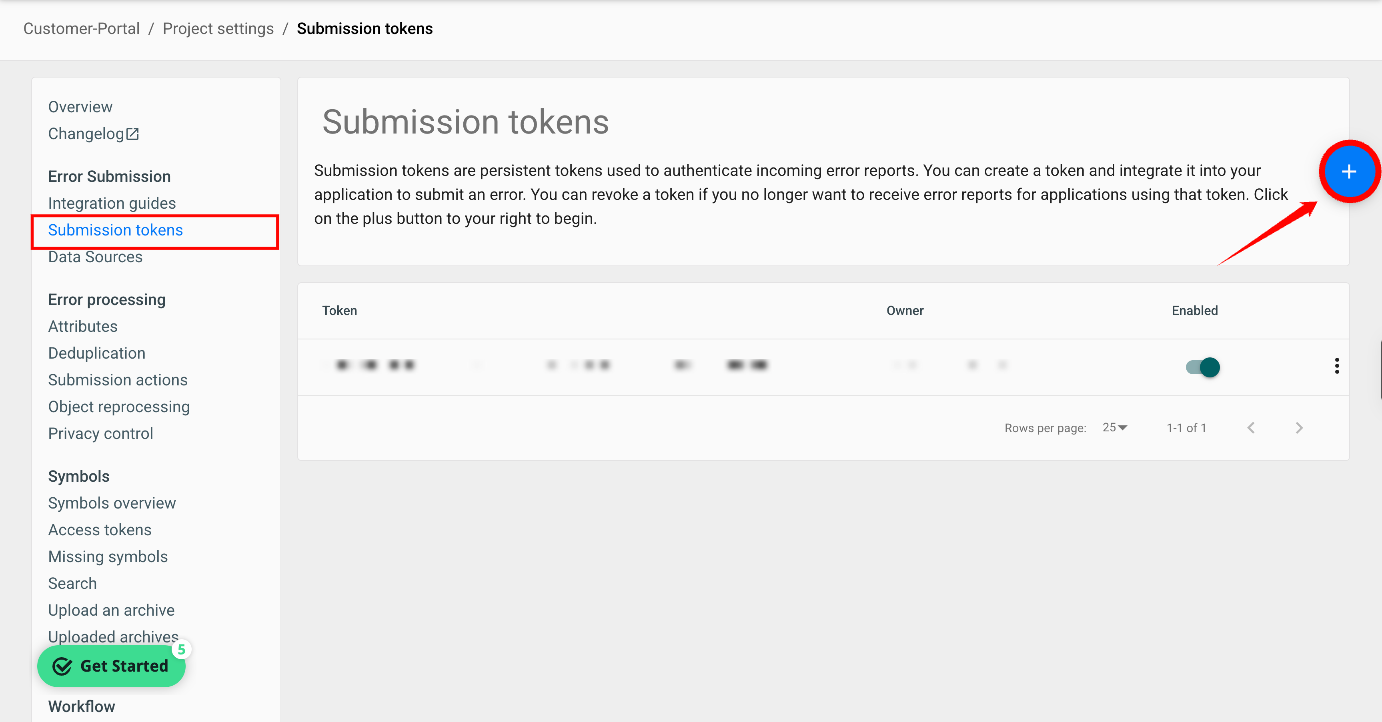
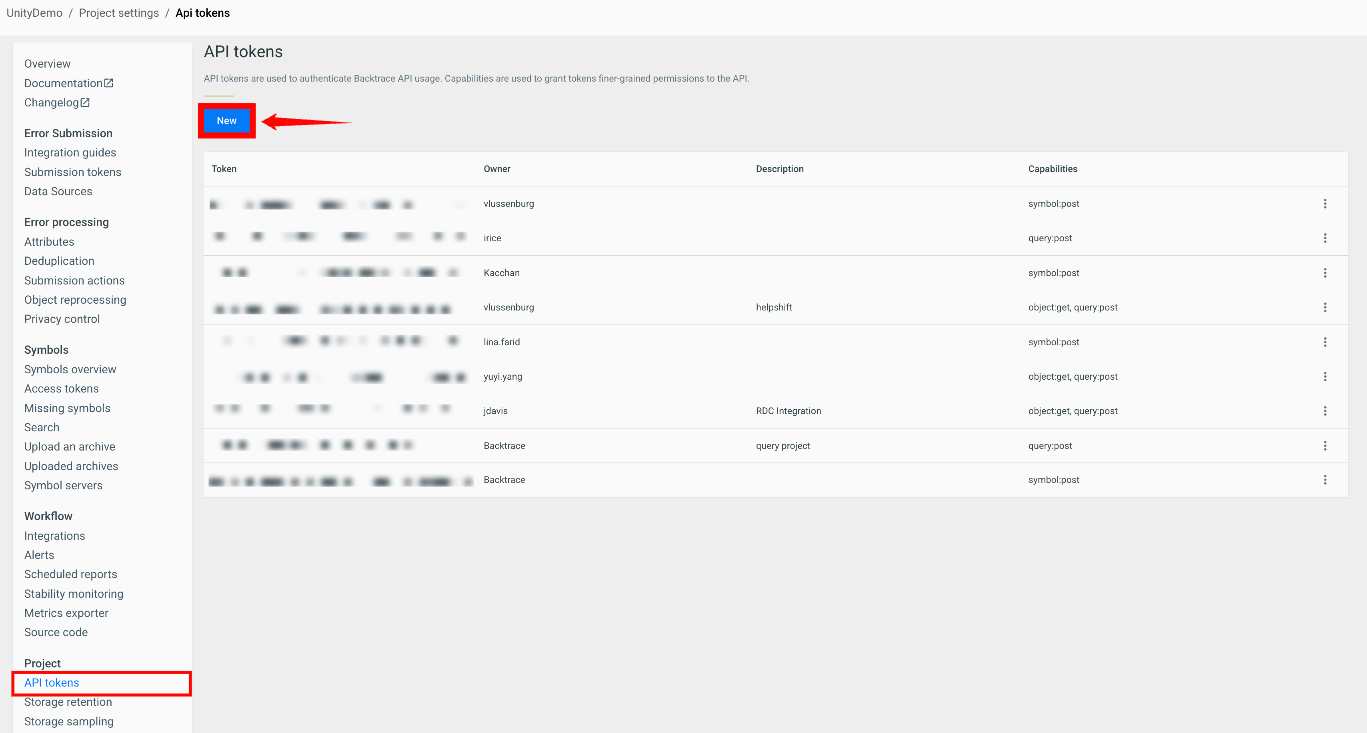
Fix ER MCP docs: Use API token instead of submission token and update screenshots. (#3712)

diff --git a/docs/error-reporting/mcp/set-up-error-reporting-mcp.md b/docs/error-reporting/mcp/set-up-error-reporting-mcp.md
@@ -15,7 +15,7 @@ The Error Reporting MCP server (`https://mcp.saucelabs.com`) supports two ways t
 | Method | Best for | How it works |
 | ----- | ----- | ----- |
 | **Single sign-on (SSO)** | Interactive use on your own machine | You sign in through your browser with your usual Sauce Labs credentials. No tokens to manage. |
-| **Access token** | Scripts, CI jobs, and headless agents | You supply an Error Reporting token that is scoped to a single project. No browser required. |
+| **Access token** | Scripts, CI jobs, and headless agents | You supply an Error Reporting API token that is scoped to a single project. No browser required. |
 
 Both methods require your **universe** name, which is the Error Reporting tenant your projects belong to. It is the subdomain you use to reach Error Reporting: for `https://saucelabs.sp.backtrace.io`, the universe is `saucelabs`.
 
@@ -69,31 +69,35 @@ Use this method to automate engineering workflows such as CI/CD jobs, local deve
 | Header | Description | Required |
 | ----- | ----- | ----- |
 | `X-Backtrace-Universe` | Your universe name, for example `saucelabs`. | Yes |
-| `X-Backtrace-Token` | The Error Reporting token you create below. | Yes |
+| `X-Backtrace-Token` | The Error Reporting API token you create below. | Yes |
 | `X-Backtrace-Project` | The project the token is scoped to. | Yes |
 
-### Create a Token
+### Create an API Token
 
 **Step 1:** In Error Reporting, select your profile icon in the top-right corner, then select **Project Settings & Docs**.
 
 <img src={useBaseUrl('img/error-reporting/error-reporting-mcp/mcp-token-1.png')} alt="Open project settings from the profile menu" />
 
-**Step 2:** Confirm that the project shown in the breadcrumb is the project you want the token to access. Under **Error Submission**, select **Submission tokens**, then select the **plus (+)** button to create a new token.
+**Step 2:** Confirm that the project shown in the breadcrumb is the project you want the token to access. Under **Project**, select **API tokens**, then select **New** to create a new token.
 
-<img src={useBaseUrl('img/error-reporting/error-reporting-mcp/mcp-token-2.png')} alt="Submission tokens page in project settings" />
+<img src={useBaseUrl('img/error-reporting/error-reporting-mcp/mcp-token-2.png')} alt="API tokens page in project settings" />
 
-**Step 3:** Enter an optional description, select the following capabilities, then select **Create**:
+**Step 3:** In the dialog that opens, enter an optional description, select the following capabilities, then select **Create**:
 
 * **`object:get`** - allows the MCP tools to fetch individual errors and their attachments.
 * **`query:post`** - allows the MCP tools to run queries, such as listing crash groups.
 
-<img src={useBaseUrl('img/error-reporting/error-reporting-mcp/mcp-token-3.png')} alt="Create a new submission token dialog" />
+<img src={useBaseUrl('img/error-reporting/error-reporting-mcp/mcp-token-3.png')} alt="Token capabilities dialog with object:get and query:post selected" />
+
+:::note
+The dialog is titled **Create a new submission token**, but because you opened it from the **API tokens** page, it creates an API token.
+:::
 
 :::tip
 Leave the remaining capabilities cleared so that the token stays read-only.
 :::
 
-**Step 4:** Copy the token value from the **Submission tokens** table. You can revoke the token from the same page at any time by disabling it or deleting it.
+**Step 4:** Copy the token value from the **API tokens** table. You can revoke the token from the same page at any time by disabling it or deleting it.
 
 ### Add the Server Using the CLI (Access Token)
 
